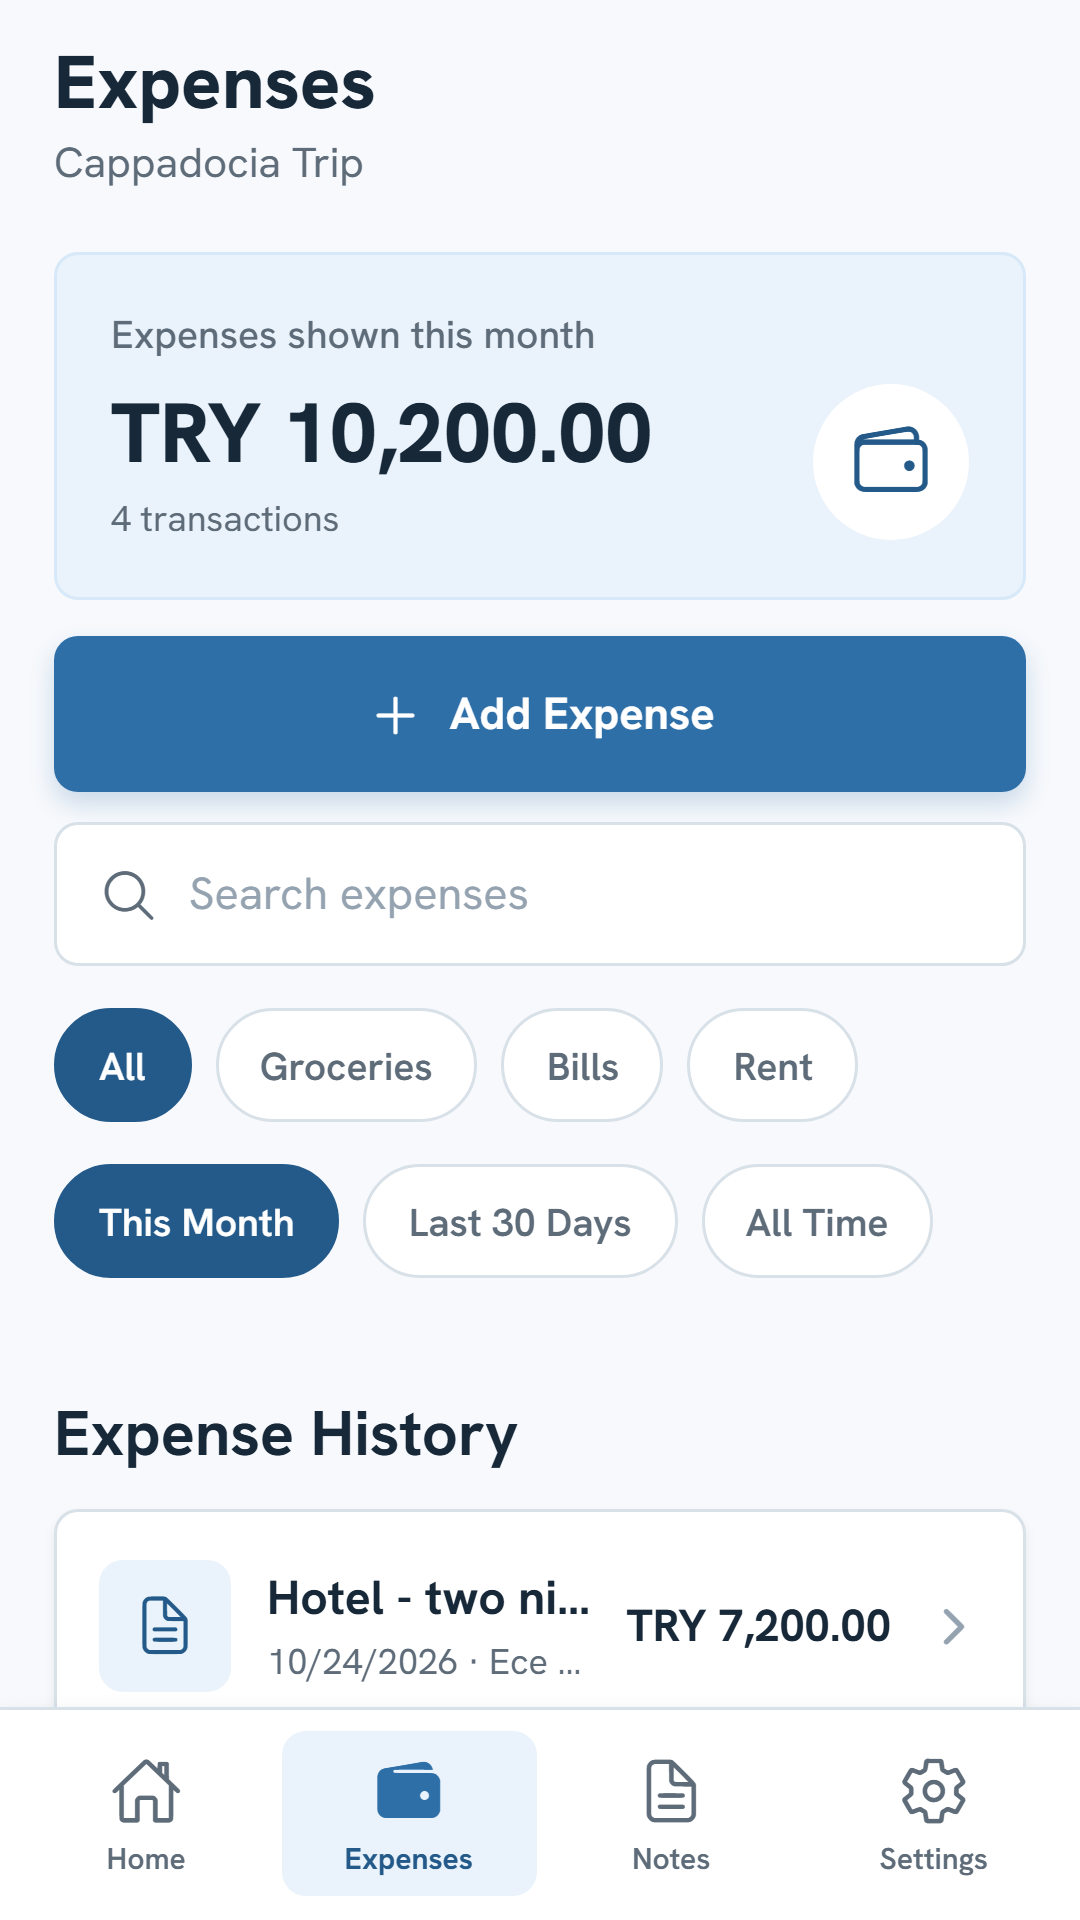
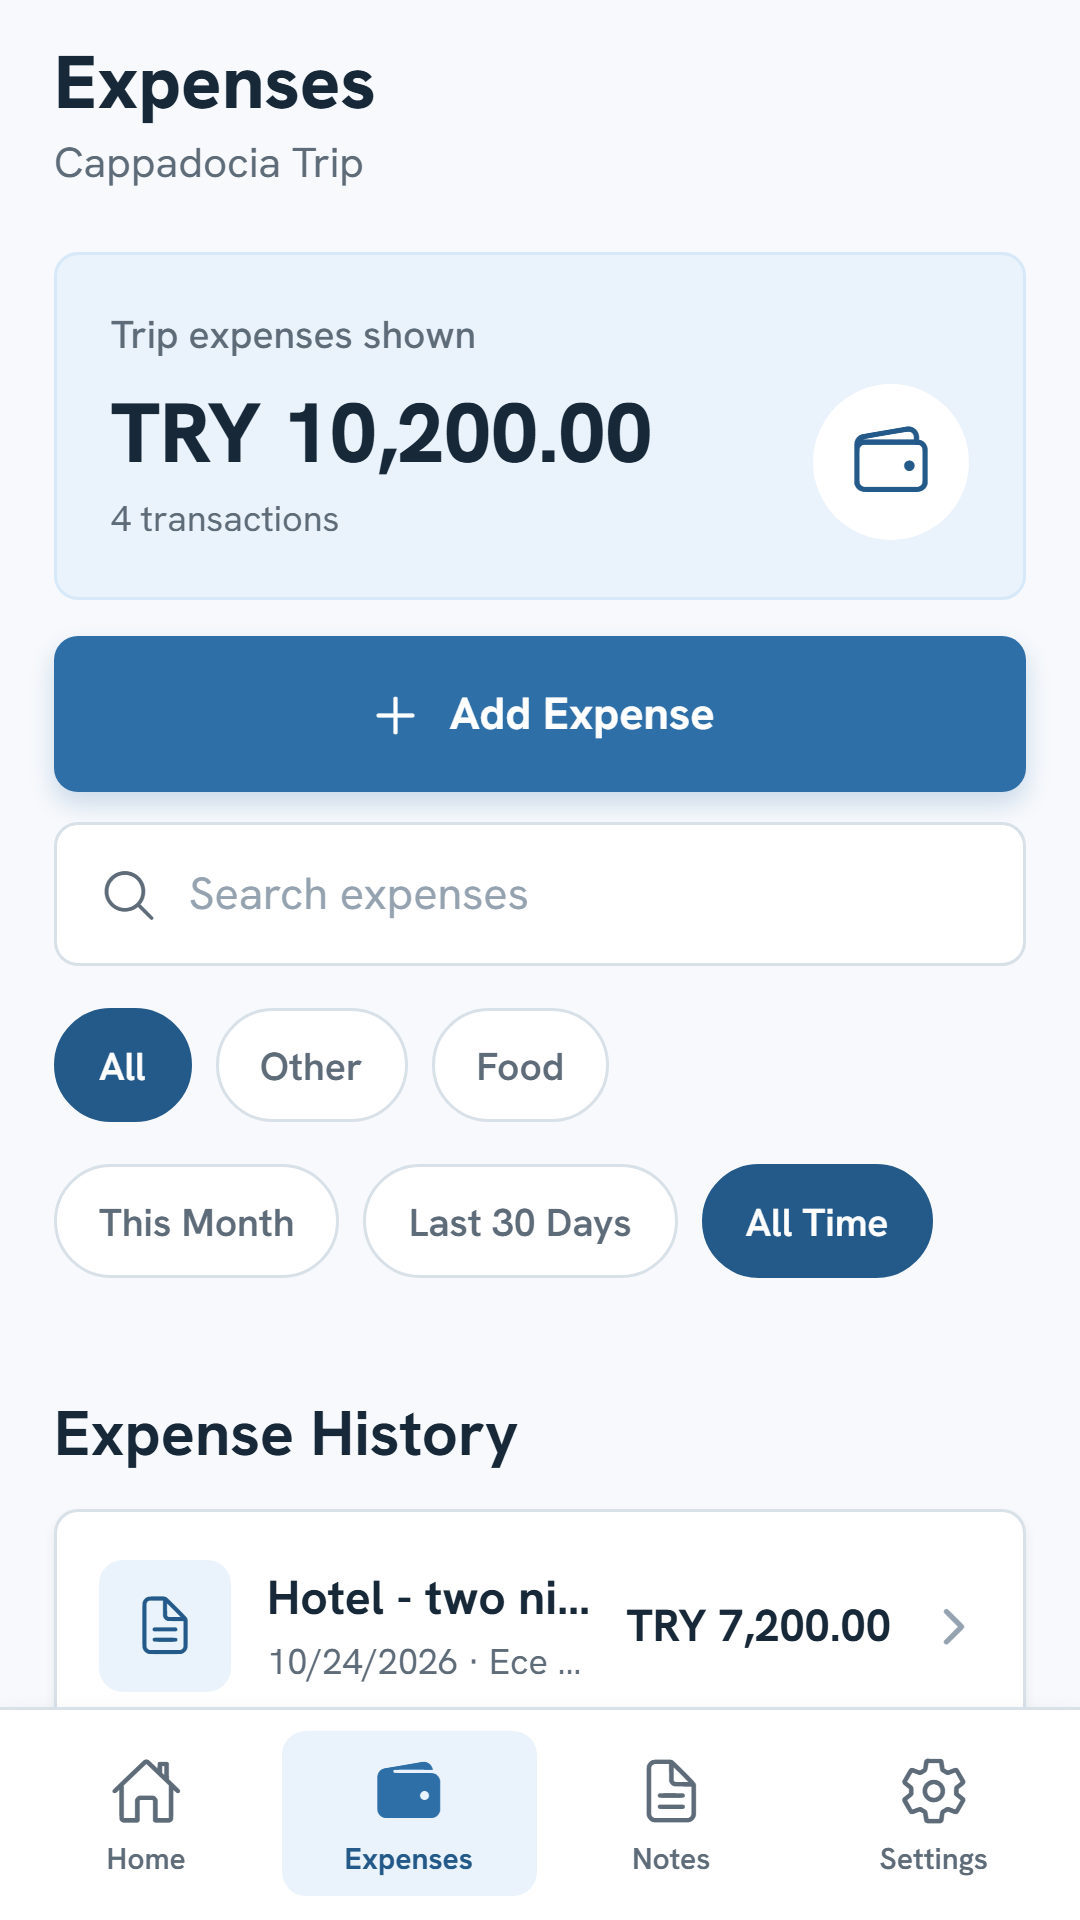
Tailor trip expense history and demo captures

diff --git a/src/screens/roomora/RoomoraExpenses.js b/src/screens/roomora/RoomoraExpenses.js
@@ -1,4 +1,4 @@
-import React, { useMemo, useState } from 'react';
+import React, { useEffect, useMemo, useState } from 'react';
 import { RefreshControl, ScrollView, StyleSheet, View } from 'react-native';
 import { Ionicons } from '@expo/vector-icons';
 import { useSafeAreaInsets } from 'react-native-safe-area-context';
@@ -16,7 +16,7 @@ import {
   SectionHeader,
   money,
 } from '../../shared/ui/roomora/CanonicalUI';
-import { getCategoryIconName } from '../../constants/ExpenseEnums';
+import { getCategoryDisplayName, getCategoryIconName } from '../../constants/ExpenseEnums';
 import { getExpenseDisplayTitle, getItemDate } from '../../utils/expenseHelpers';
 
 import { Text, TextInput } from '../../shared/i18n';
@@ -24,7 +24,7 @@ import { getLocale } from '../../shared/i18n/runtime';
 
 import { TouchableOpacity } from '../../shared/i18n';
 
-const filters = [
+const homeFilters = [
   { key: 'all', label: 'Tümü' },
   { key: 'Market', label: 'Market' },
   { key: 'bill', label: 'Faturalar' },
@@ -36,12 +36,28 @@ export default function RoomoraExpenses({ navigation }) {
   const { theme } = useTheme();
   const insets = useSafeAreaInsets();
   const data = useRoomoraDashboard(user);
+  const isTrip = String(data.groupType).toLowerCase() === 'trip';
   const screenError = data.errors?.expenses;
   const [filter, setFilter] = useState('all');
   const [period, setPeriod] = useState('month');
   const [search, setSearch] = useState('');
   const [visibleCount, setVisibleCount] = useState(10);
   const styles = useMemo(() => makeStyles(theme, insets), [theme, insets]);
+
+  useEffect(() => {
+    setFilter('all');
+    setPeriod(isTrip ? 'all' : 'month');
+    setVisibleCount(10);
+  }, [data.houseId, isTrip]);
+
+  const filters = useMemo(() => {
+    if (!isTrip) return homeFilters;
+    const categories = [...new Set(data.expenses.map((item) => item.key).filter(Boolean))];
+    return [{ key: 'all', label: 'Tümü' }, ...categories.map((key) => ({
+      key,
+      label: getCategoryDisplayName(key),
+    }))];
+  }, [data.expenses, isTrip]);
 
   const items = useMemo(() => data.expenses.filter((item) => {
     const matchesFilter = filter === 'all'
@@ -80,7 +96,7 @@ export default function RoomoraExpenses({ navigation }) {
         <PageHeader title="Giderler" subtitle={data.houseName} />
 
         <View style={styles.totalCard}>
-          <Text style={styles.totalLabel}>Bu ay görüntülenen gider</Text>
+          <Text style={styles.totalLabel}>{isTrip ? 'Görüntülenen gezi gideri' : 'Bu ay görüntülenen gider'}</Text>
           <View style={styles.totalRow}>
             <View>
           <Text style={styles.totalValue}>{screenError ? '—' : money(total)}</Text>

diff --git a/src/shared/i18n/translations.js b/src/shared/i18n/translations.js
@@ -547,6 +547,7 @@ const EN = {
   'Davet gönderilemedi.': 'The invitation could not be sent.',
   'Harcama Geçmişi': 'Expense History',
   'Bu ay görüntülenen gider': 'Expenses shown this month',
+  'Görüntülenen gezi gideri': 'Trip expenses shown',
   'Harcamalarda ara': 'Search expenses',
   'Bu Ay': 'This Month',
   'Son 30 Gün': 'Last 30 Days',
